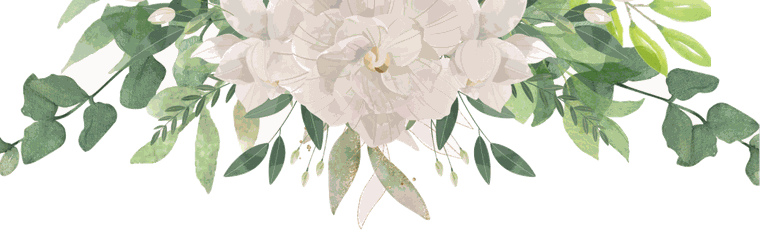
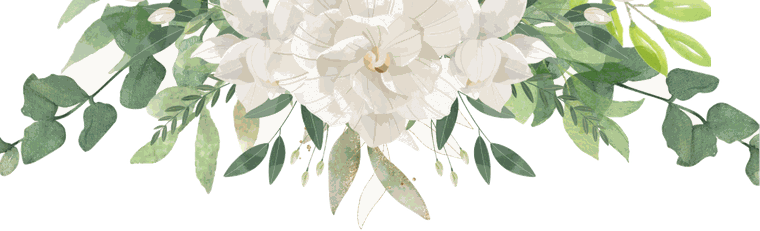
v155: guirnaldas en blanco puro y fondo unico en toda la invitacion

diff --git a/index.html b/index.html
@@ -409,7 +409,7 @@
   }
 
   /* secciones oscuras */
-  .dark{background:#F6ECE4;max-width:none;color:var(--ink)}
+  .dark{background:transparent;max-width:none;color:var(--ink)}
   .dark .inner{max-width:640px;margin:0 auto}
   .dark .eyebrow{color:#A87F45}
   .count-grid{display:flex;justify-content:center;gap:12px;flex-wrap:wrap;margin-top:30px}
@@ -738,7 +738,7 @@
 </section>
 
 <!-- ======= CUENTA ATRÁS ======= -->
-<section id="countdown" class="dark flor-abajo">
+<section id="countdown" class="flor-abajo">
   <div class="inner">
     <p class="eyebrow wrt">Falta cada vez menos</p>
     <h2 class="sec-title wrt" style="--d:.45s">Cuenta atrás para el gran día</h2>
@@ -811,7 +811,7 @@
 </section>
 
 <!-- ======= AUTOBÚS ======= -->
-<section id="bus" class="dark flor-abajo">
+<section id="bus" class="flor-abajo">
   <div class="inner">
     <p class="eyebrow wrt">Traslados</p>
     <h2 class="sec-title wrt" style="--d:.45s">Transporte para invitados</h2>
@@ -832,7 +832,7 @@
 </section>
 
 <!-- ======= ALOJAMIENTO ======= -->
-<section id="alojamiento" class="dark flor-abajo sin-mono">
+<section id="alojamiento" class="flor-abajo sin-mono">
   <p class="eyebrow wrt">Para los que venís de fuera</p>
   <h2 class="sec-title wrt" style="--d:.45s">Alojamiento</h2>
   <div class="card">
@@ -844,7 +844,7 @@
 </section>
 
 <!-- ======= DRESS CODE ======= -->
-<section id="dresscode" class="dark flor-abajo">
+<section id="dresscode" class="flor-abajo">
   <p class="eyebrow wrt">Cómo vestir</p>
   <h2 class="sec-title wrt" style="--d:.45s">Dress code</h2>
   <div class="card">
@@ -855,7 +855,7 @@
 </section>
 
 <!-- ======= PREGUNTAS FRECUENTES ======= -->
-<section id="faq" class="dark flor-abajo">
+<section id="faq" class="flor-abajo">
   <p class="eyebrow wrt">Antes de venir</p>
   <h2 class="sec-title wrt" style="--d:.45s">Preguntas frecuentes</h2>
   <div class="faq">
@@ -888,7 +888,7 @@
 </section>
 
 <!-- ======= RSVP ======= -->
-<section id="rsvp" class="dark flor-abajo">
+<section id="rsvp" class="flor-abajo">
   <div class="inner">
     <p class="eyebrow wrt">Confirma tu asistencia</p>
     <h2 class="sec-title wrt" style="--d:.45s">¿Contamos contigo?</h2>
